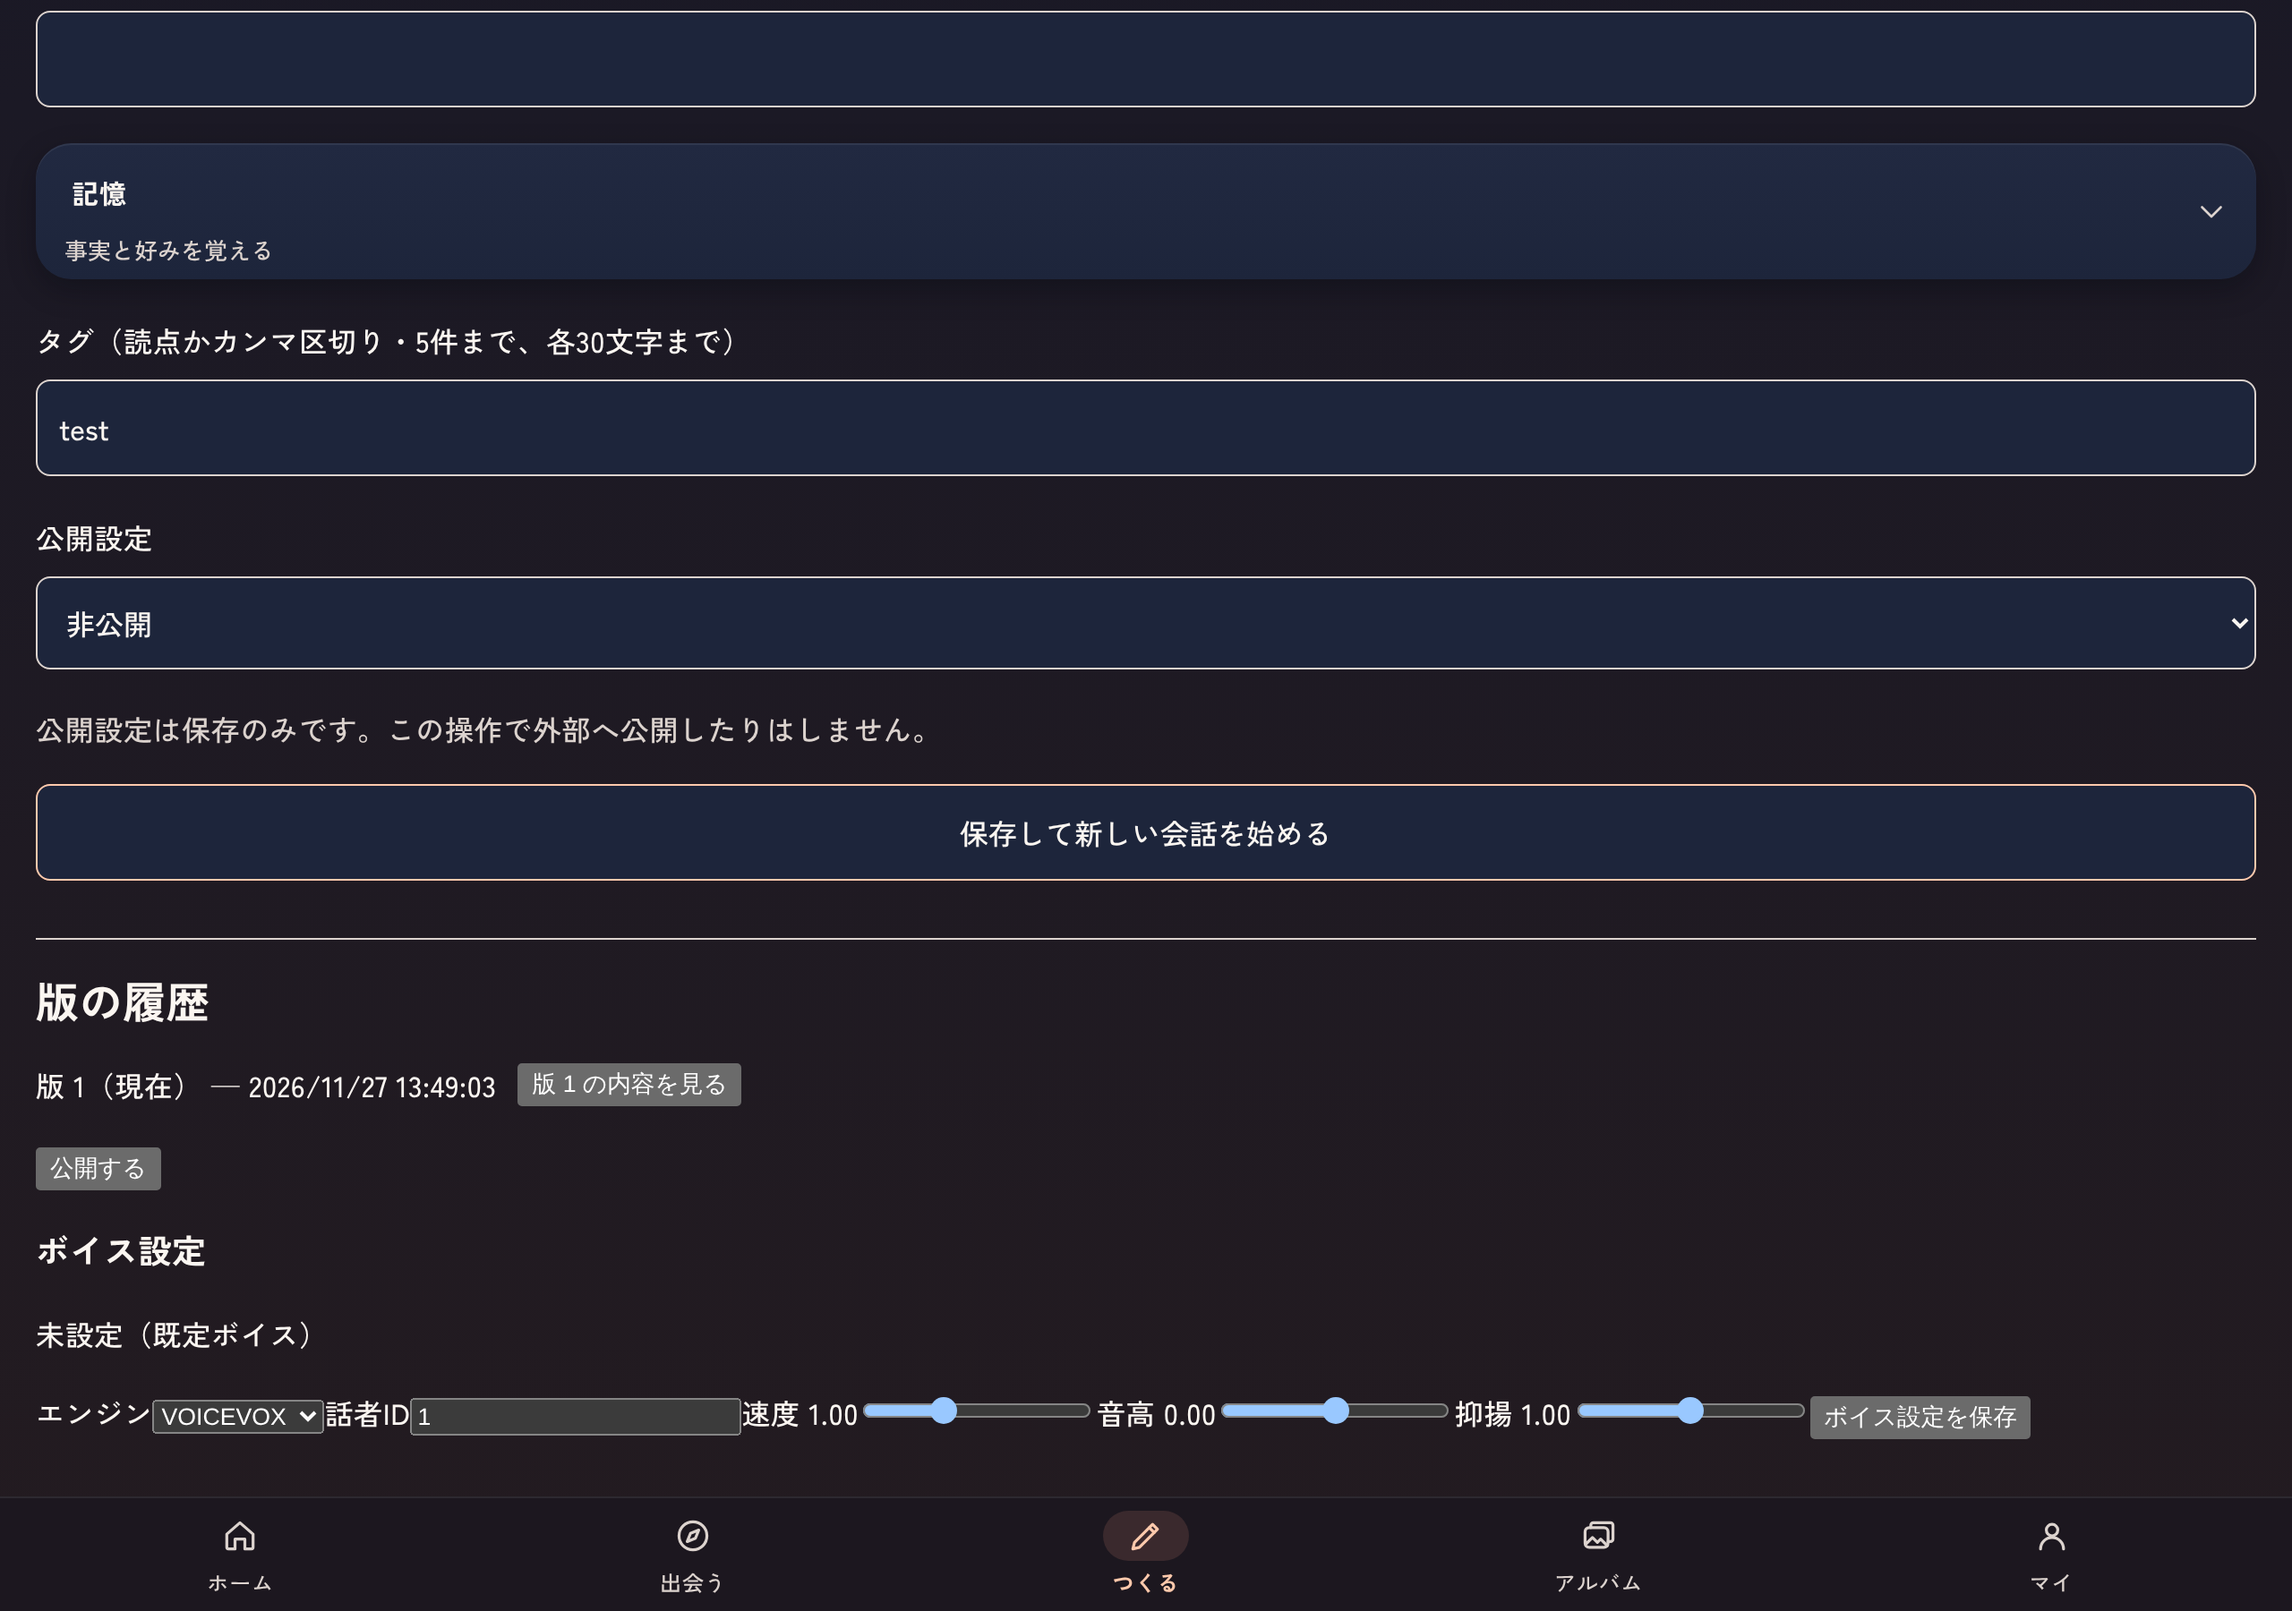
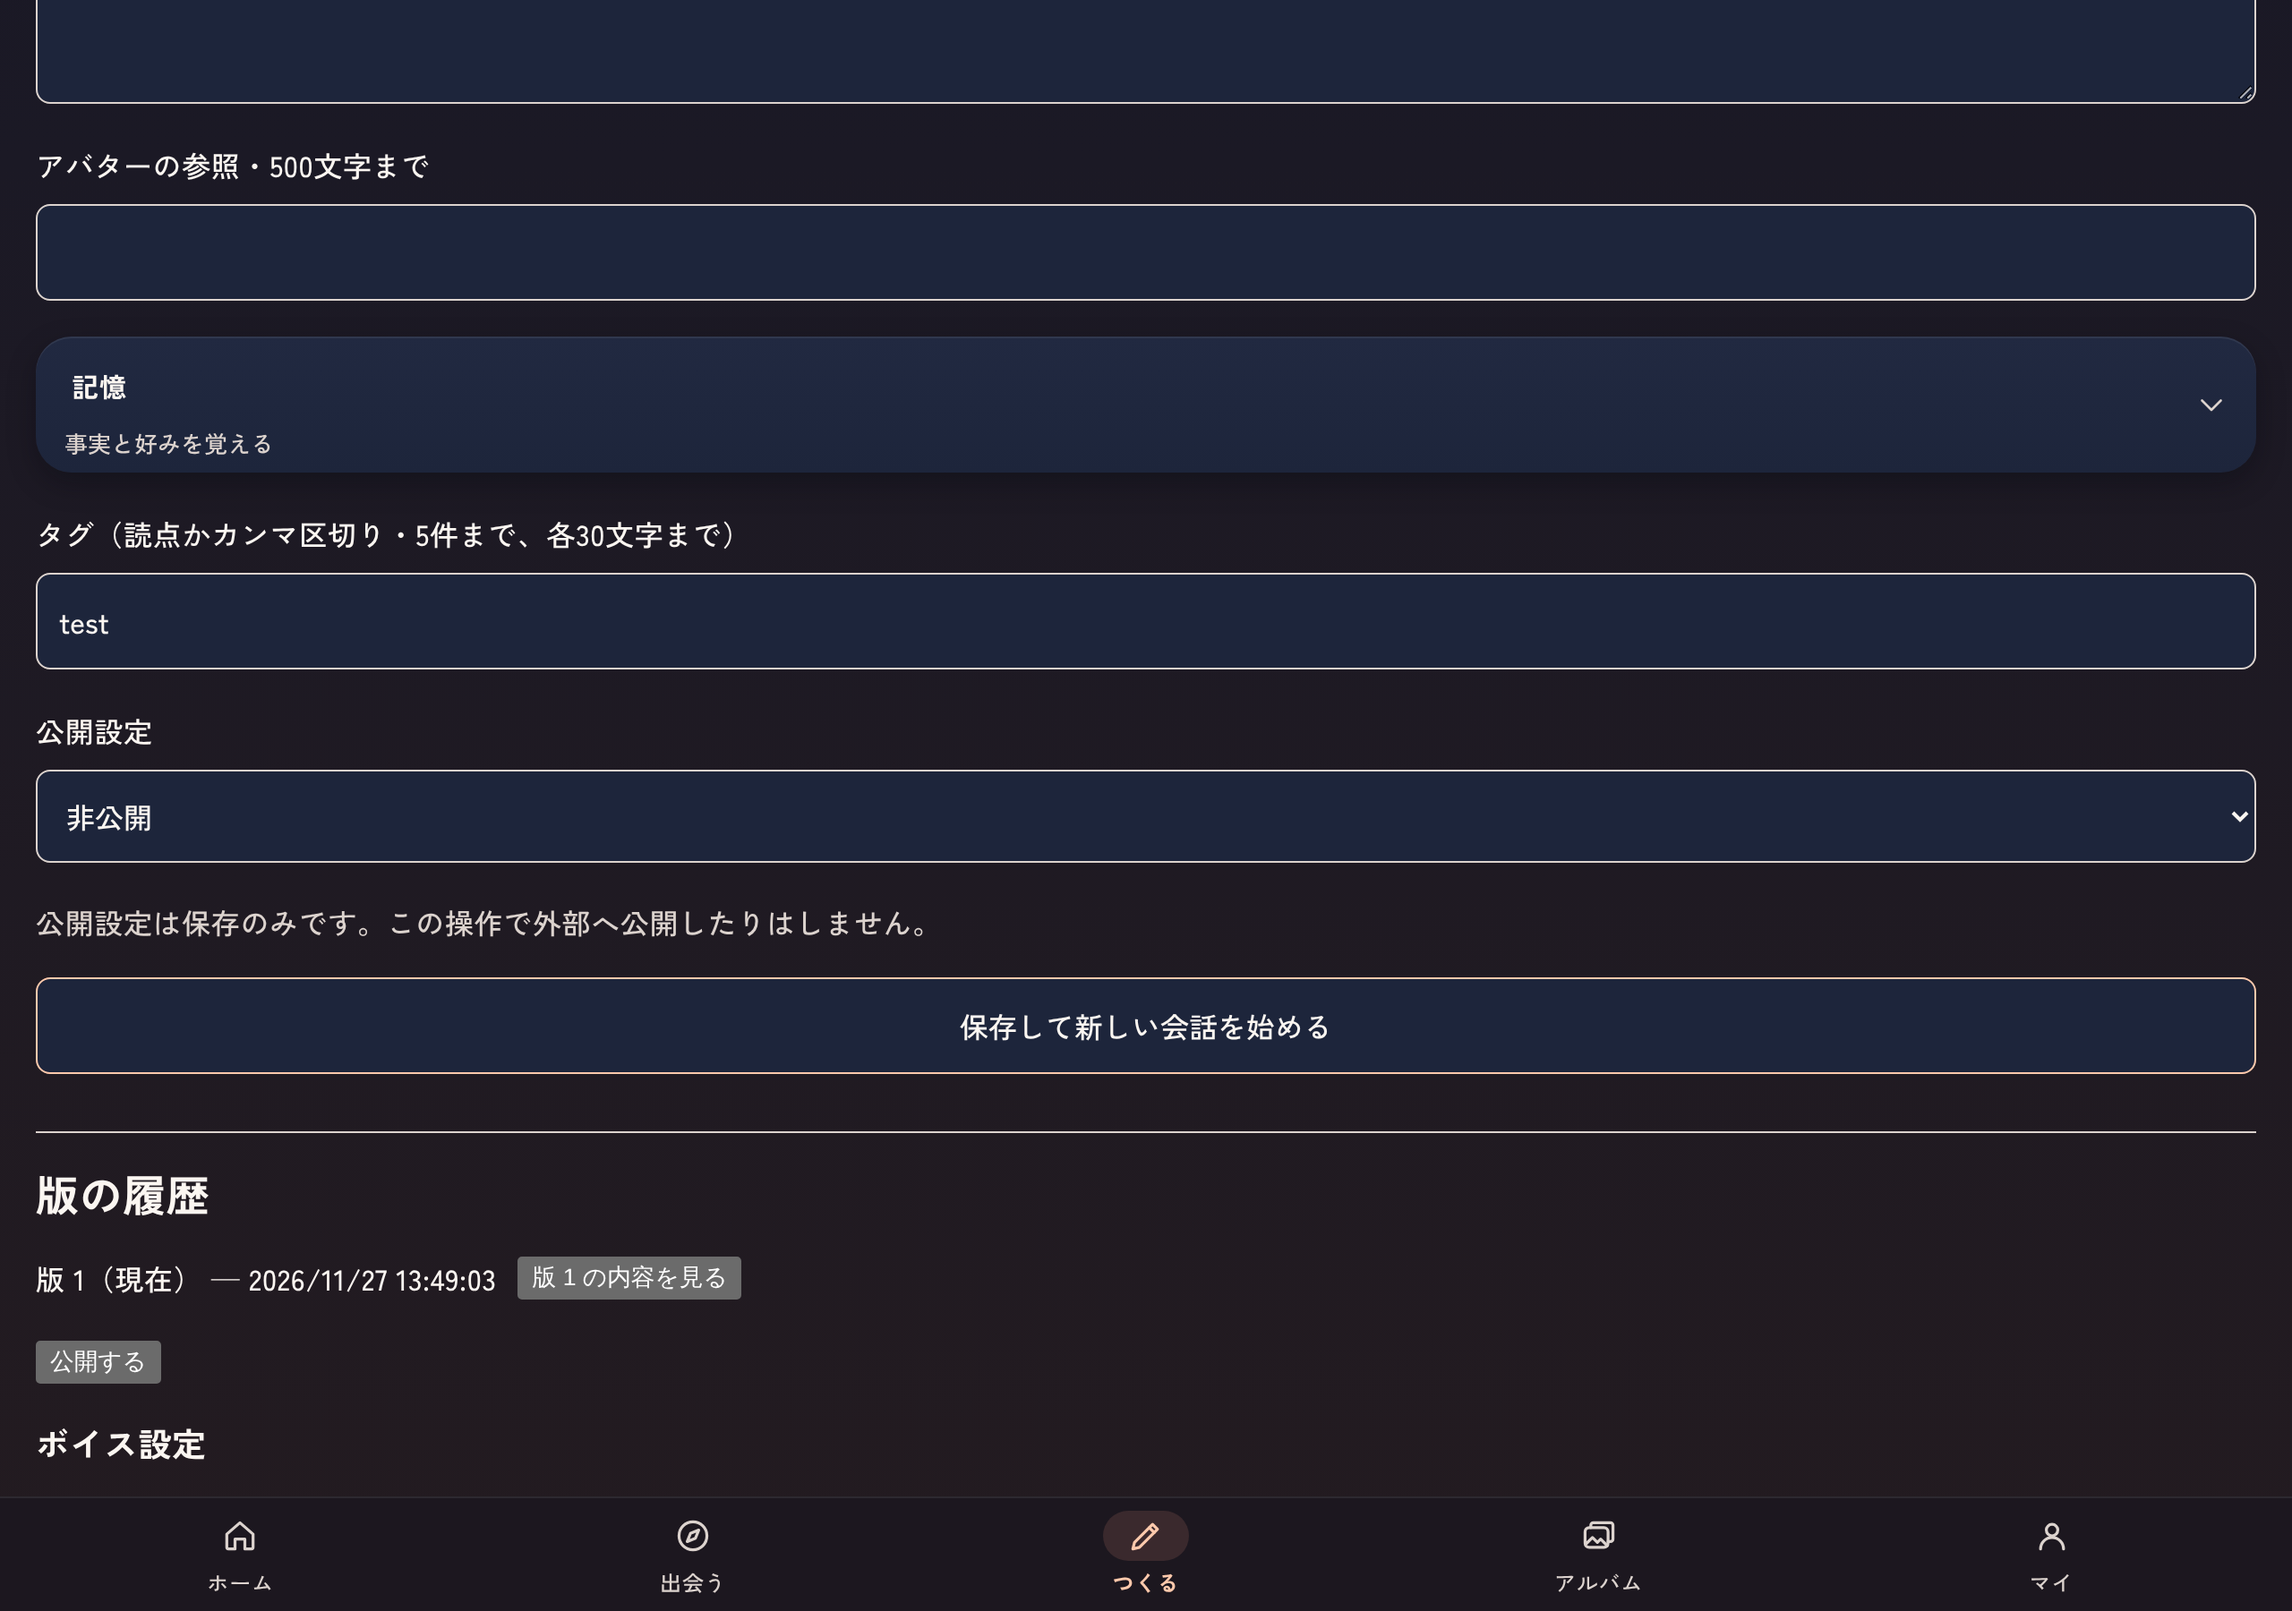
fix(v2): keep meet and make screens' last controls above the tab bar
The same tab-bar overlap hid the meet card's action row (飛ばす・とっておく・
話す) and the last row of the make list at the boards' smallest size
(360x740) and at 390x667. Let the meet card's picture shrink instead of
its text panel, and pad the make body by the tab bar height only when the
tab bar is shown. Also replace the 1280 "before" screenshot, which had been
captured after the fix.

Claude-Session: https://claude.ai/code/session_01Cv4a6Dg2NjUHZcJHzvyJq4

diff --git a/apps/v2/src/component/meet-screen.css b/apps/v2/src/component/meet-screen.css
@@ -176,7 +176,9 @@
 
 .v2-meet-hero {
   position: relative;
-  flex: 0 0 61%;
+  /* 板の割合は 61%。背の低い画面（板 Sizes の 360×740 など）では下の面の文と「話す」が
+     カードからはみ出してタブバーの裏へ潜るので、絵の方を縮めて下の面を守る */
+  flex: 0 1 61%;
   min-height: 0;
   overflow: hidden;
   background: var(--color-ground-low);
@@ -236,8 +238,8 @@
 
 /* 下の面。地（絵の下）のグラデーション */
 .v2-meet-body {
-  flex: 1;
-  min-height: 0;
+  /* 下の面は文と「話す」が全部入る高さより縮めん（縮むのは絵の方。.v2-meet-hero） */
+  flex: 1 0 auto;
   box-sizing: border-box;
   padding: 0 var(--space-gutter);
   background: var(--gradient-sheet);

diff --git a/apps/v2/src/component/make-screen.css b/apps/v2/src/component/make-screen.css
@@ -35,6 +35,12 @@
   padding: 0 var(--space-gutter) 32px;
 }
 
+/* #root は高さ 100% 固定で、はみ出した本文の後ろには帯の分の余白が付かん。下の帯のある画面
+   （つくるの一覧）だけ、末尾の行が帯に潜らんよう帯の高さを足す。帯の無い作成の画面は足さん */
+body:has(.v2-tabbar) .v2-make-body {
+  padding-bottom: calc(var(--tab-bar-total) + 32px);
+}
+
 /* 6.4 ふつうの頭。タブの根は題 22px・左 20 */
 .v2-make-head {
   flex: none;
